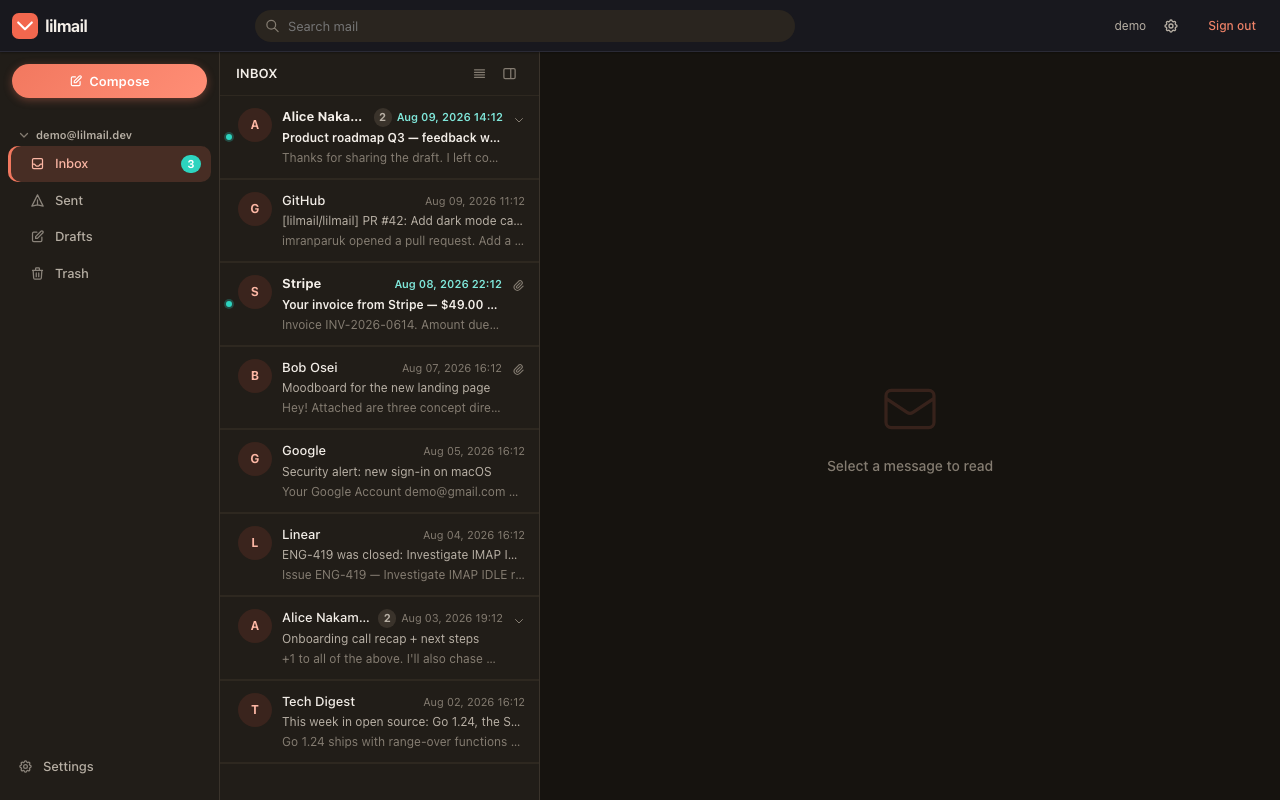
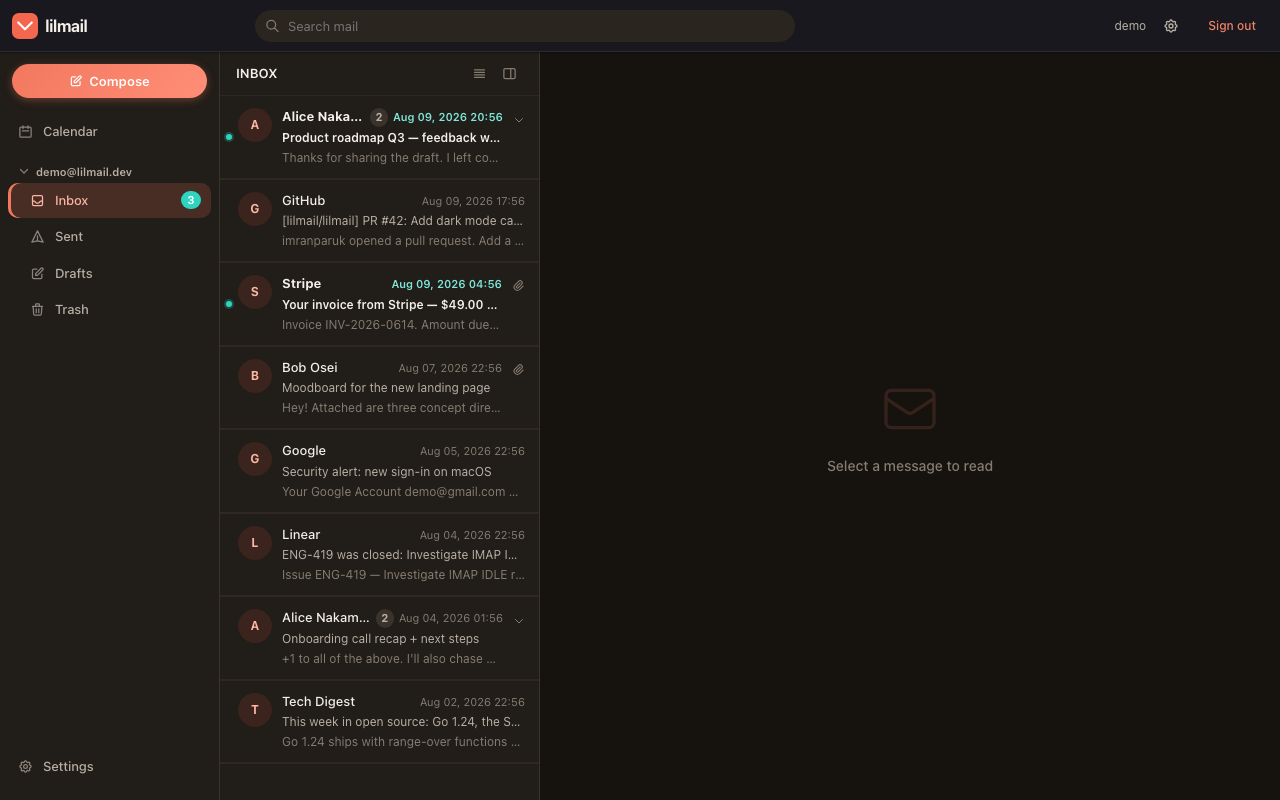
Capture the calendar against a real CalDAV server
The calendar screenshot has never existed. Demo mode fakes IMAP and
nothing else — democlient.go stands in for a mail server, but the calendar
handlers take a concrete *api.CalDAVClient that speaks to a real one, and
the routes are registered only when [caldav] enabled is set (main.go:578).
So every capture run skipped the calendar with a 404, and the gallery for
a product that advertises "mail, calendar and contacts" had no calendar in
it.

Two shortcuts were available and both were wrong. Hand-rolling a fake
CalDAV endpoint would make the screenshot a picture of the fake, and this
repo's claim is that its screens are real captures. Extracting an
interface so a demo client could be substituted would mean refactoring
shipping code to produce a marketing image.

So `--with-calendar` runs Radicale — an actual CalDAV server — seeds it
with a week of events over real PUT requests, and points lilmail at it.
What calendar.png shows was fetched by the same code path that talks to
Fastmail or a self-hosted box. Radicale is torn down with the rest of the
run.

Opt-in, because it needs Python and Radicale which nothing else in the
pipeline does; without the flag every existing behaviour is unchanged. The
seeded week is pinned to a fixed anchor date rather than "today", so a
capture taken next month frames the same week instead of drifting.

docs/SCREENSHOTS.md now says why the calendar was the exception and how to
get it. site/gen tests pass, check-render clean.

diff --git a/docs/SCREENSHOTS.md b/docs/SCREENSHOTS.md
@@ -14,13 +14,25 @@ mode.
 | `docs/screenshots/message.png` | Message viewer | Real — demo mode |
 | `docs/screenshots/compose.png` | Compose modal with CC/BCC and attachment UI | Real — demo mode |
 | `docs/screenshots/search.png` | Search results filtered by query | Real — demo mode |
-| `docs/screenshots/calendar.png` | Calendar month view | Needs CalDAV (`[caldav]` enabled) |
+| `docs/screenshots/calendar.png` | Calendar month view | Needs a CalDAV server — `--with-calendar` starts one |
 | `docs/screenshots/settings.png` | Settings page | Real — demo mode |
 
 ## Demo mode (no credentials required)
 
 All screenshots except the calendar can be captured without any real email
 account. Demo mode runs an in-memory mail client seeded with realistic messages.
+
+The calendar is the exception because demo mode fakes IMAP and nothing else:
+`handlers/api/democlient.go` stands in for a mail server, but the calendar
+handlers take a concrete `*api.CalDAVClient` that speaks to a real one. The
+route is registered only when `[caldav] enabled` is set (`main.go:578`), so a
+plain capture run skips the calendar with a 404.
+
+Faking a CalDAV endpoint would have been the easy fix and the wrong one — the
+screenshot would then be a picture of the fake. `--with-calendar` runs
+[Radicale](https://radicale.org), an actual CalDAV server, seeds it with a
+week of events, and points lilmail at it over the wire. What you see in
+`calendar.png` was fetched by the same code path that talks to Fastmail.
 
 ```bash
 # From the lilmail repo root — builds binary and captures all demo screenshots:
@@ -76,8 +88,13 @@ message content and folder structure are stable.
 To reproduce exactly:
 
 ```bash
-scripts/seed-demo.sh --screenshots
+scripts/seed-demo.sh --screenshots                    # everything except the calendar
+scripts/seed-demo.sh --screenshots --with-calendar    # adds the calendar
 ```
+
+`--with-calendar` needs Python and Radicale (`pip install radicale`), which the
+rest of the pipeline does not — hence opt-in. Both the server and its data are
+torn down with everything else when the run ends.
 
 Or, to run the server and capture manually:
 

diff --git a/site/docs/screenshots.md b/site/docs/screenshots.md
@@ -15,13 +15,25 @@ mode.
 | `docs/screenshots/message.png` | Message viewer | Real — demo mode |
 | `docs/screenshots/compose.png` | Compose modal with CC/BCC and attachment UI | Real — demo mode |
 | `docs/screenshots/search.png` | Search results filtered by query | Real — demo mode |
-| `docs/screenshots/calendar.png` | Calendar month view | Needs CalDAV (`[caldav]` enabled) |
+| `docs/screenshots/calendar.png` | Calendar month view | Needs a CalDAV server — `--with-calendar` starts one |
 | `docs/screenshots/settings.png` | Settings page | Real — demo mode |
 
 ## Demo mode (no credentials required)
 
 All screenshots except the calendar can be captured without any real email
 account. Demo mode runs an in-memory mail client seeded with realistic messages.
+
+The calendar is the exception because demo mode fakes IMAP and nothing else:
+`handlers/api/democlient.go` stands in for a mail server, but the calendar
+handlers take a concrete `*api.CalDAVClient` that speaks to a real one. The
+route is registered only when `[caldav] enabled` is set (`main.go:578`), so a
+plain capture run skips the calendar with a 404.
+
+Faking a CalDAV endpoint would have been the easy fix and the wrong one — the
+screenshot would then be a picture of the fake. `--with-calendar` runs
+[Radicale](https://radicale.org), an actual CalDAV server, seeds it with a
+week of events, and points lilmail at it over the wire. What you see in
+`calendar.png` was fetched by the same code path that talks to Fastmail.
 
 ```bash
 # From the lilmail repo root — builds binary and captures all demo screenshots:
@@ -77,8 +89,13 @@ message content and folder structure are stable.
 To reproduce exactly:
 
 ```bash
-scripts/seed-demo.sh --screenshots
+scripts/seed-demo.sh --screenshots                    # everything except the calendar
+scripts/seed-demo.sh --screenshots --with-calendar    # adds the calendar
 ```
+
+`--with-calendar` needs Python and Radicale (`pip install radicale`), which the
+rest of the pipeline does not — hence opt-in. Both the server and its data are
+torn down with everything else when the run ends.
 
 Or, to run the server and capture manually:
 
